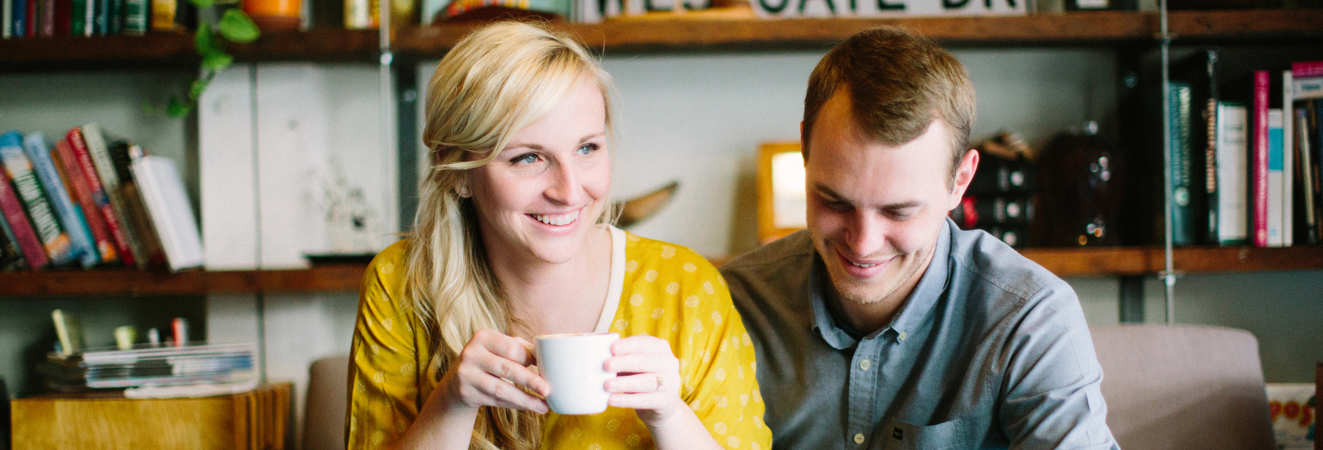
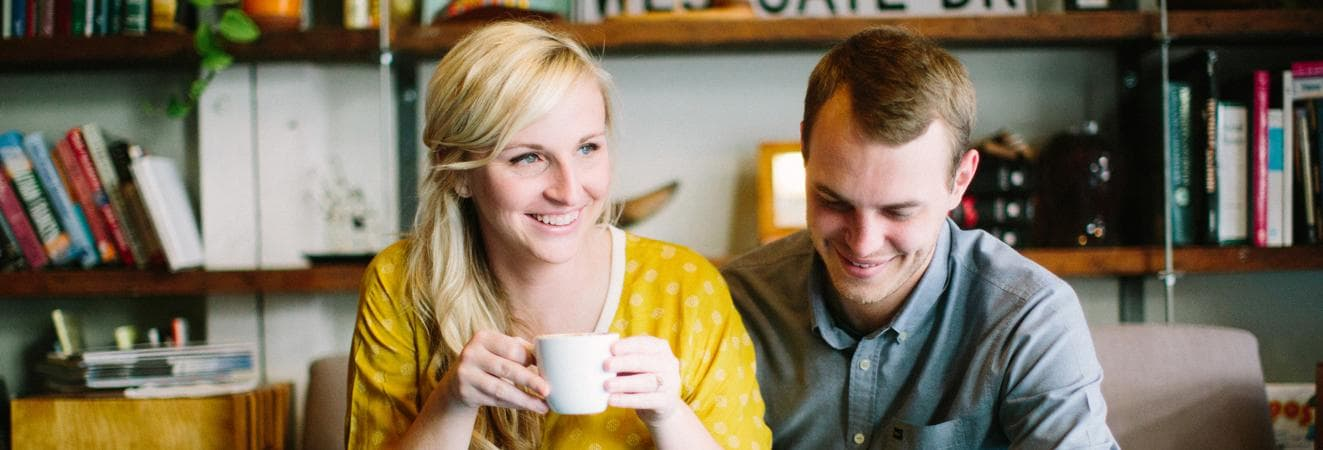
Compres images

diff --git a/templates/base.html b/templates/base.html
@@ -7,7 +7,6 @@
 	<title>{% block title %}Ben Adam{% endblock %}</title>
 	<meta name="description" content="Design & Developer in Tempe Arizona">
 	<link rel="shortcut icon" href="{% static '/images/favicon.ico' %}">
-	<link href="https://fonts.googleapis.com/css?family=Libre+Baskerville:400,700|Nanum+Gothic:400,700&display=swap" rel="stylesheet">
 	<link rel="stylesheet" href="{% static '/css/app.css' %}">
 </head>
 

diff --git a/templates/project.html b/templates/project.html
@@ -9,8 +9,8 @@
 <section class="blog-body border">
   {% block body %}
     This is where the post contents is.
-  {% endblock body %} 
-</section>    
+  {% endblock body %}
+</section>
 
 {% include 'more-projects.html' %}
 
